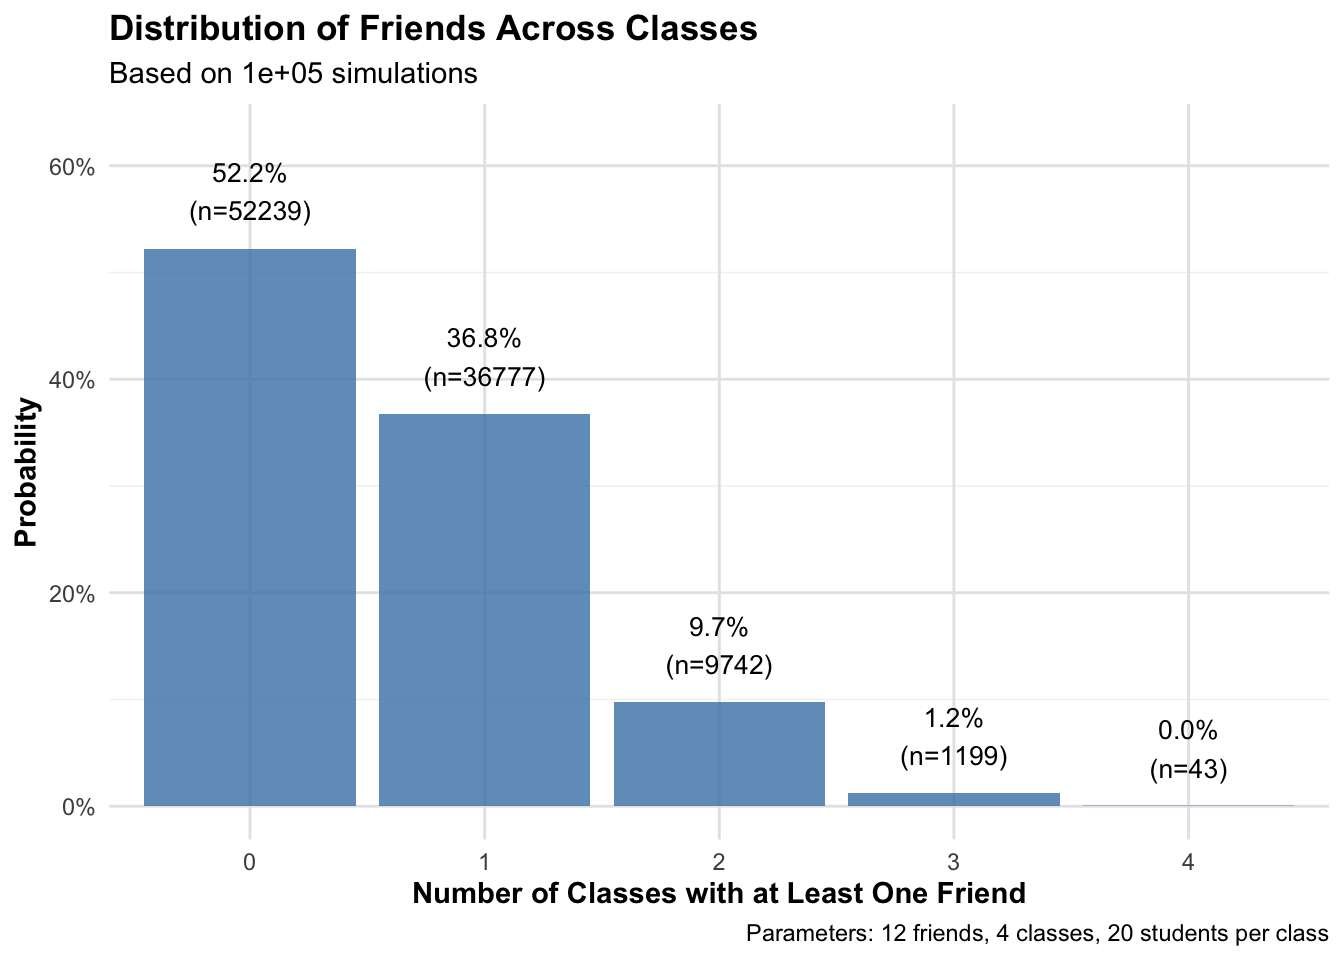
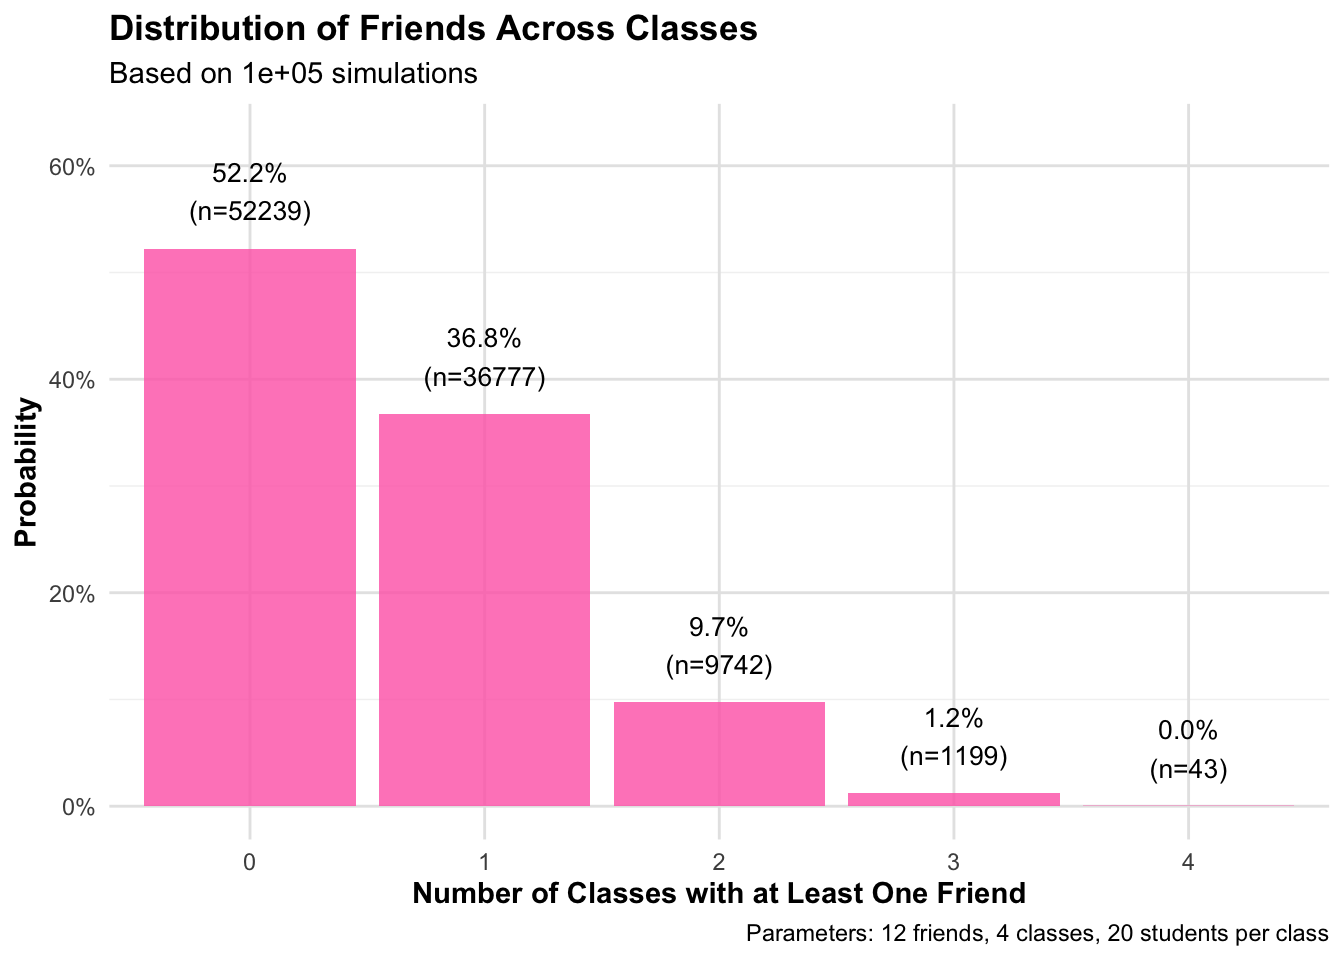
done till 4

Changed region(s): [[0.0938, 0.25, 0.8125, 0.8438]]

diff --git a/docs/Project3Taha.html b/docs/Project3Taha.html
@@ -7,7 +7,7 @@
 <meta name="viewport" content="width=device-width, initial-scale=1.0, user-scalable=yes">
 
 
-<title>taha6767.github.io - Project3Taha</title>
+<title>taha6767.github.io - Mustafa Taha Disbudak November 8 2024 Experimenting with a simulation in R</title>
 <style>
 code{white-space: pre-wrap;}
 span.smallcaps{font-variant: small-caps;}
@@ -131,25 +131,33 @@ pre > code.sourceCode > span > a:first-child::before { text-decoration: underlin
 <span class="menu-text">About</span></a>
   </li>  
   <li class="nav-item dropdown ">
-    <a class="nav-link dropdown-toggle" href="#" id="nav-menu-data-viz" role="button" data-bs-toggle="dropdown" aria-expanded="false">
- <span class="menu-text">Data Viz</span>
+    <a class="nav-link dropdown-toggle" href="#" id="nav-menu-my-projects" role="button" data-bs-toggle="dropdown" aria-expanded="false">
+ <span class="menu-text">My Projects</span>
     </a>
-    <ul class="dropdown-menu" aria-labelledby="nav-menu-data-viz">    
+    <ul class="dropdown-menu" aria-labelledby="nav-menu-my-projects">    
         <li>
     <a class="dropdown-item" href="./tidytuesday1.html">
- <span class="dropdown-text">TidyTuesday Analysis 1</span></a>
+ <span class="dropdown-text">Analyzing Ceo Departures Using R</span></a>
   </li>  
         <li>
     <a class="dropdown-item" href="./tidytuesday2.html">
- <span class="dropdown-text">TidyTuesday Analysis 2</span></a>
+ <span class="dropdown-text">Draugh Analysis of California Using R</span></a>
   </li>  
         <li>
     <a class="dropdown-item" href="./Project2Taha copy.html">
- <span class="dropdown-text">Project 2</span></a>
+ <span class="dropdown-text">Analyzing Netflix Data Using R</span></a>
   </li>  
         <li>
-    <a class="dropdown-item" href="./Project3Taha.html">
- <span class="dropdown-text">Project 3</span></a>
+    <a class="dropdown-item" href="./TahaProject3Final.html">
+ <span class="dropdown-text">Simulation of an Hypothetical Situation in R</span></a>
+  </li>  
+        <li>
+    <a class="dropdown-item" href="./Project4.html">
+ <span class="dropdown-text">Replicating a Graph in R</span></a>
+  </li>  
+        <li>
+    <a class="dropdown-item" href="./barebones.html">
+ <span class="dropdown-text">Presentation on My Projects So Far</span></a>
   </li>  
     </ul>
   </li>
@@ -172,7 +180,7 @@ pre > code.sourceCode > span > a:first-child::before { text-decoration: underlin
 
 <header id="title-block-header" class="quarto-title-block default">
 <div class="quarto-title">
-<h1 class="title">Project3Taha</h1>
+<h1 class="title">Mustafa Taha Disbudak November 8 2024 Experimenting with a simulation in R</h1>
 </div>
 
 
@@ -242,7 +250,7 @@ pre > code.sourceCode > span > a:first-child::before { text-decoration: underlin
 <span id="cb1-47"><a href="#cb1-47" aria-hidden="true" tabindex="-1"></a><span class="co"># Create the visualization</span></span>
 <span id="cb1-48"><a href="#cb1-48" aria-hidden="true" tabindex="-1"></a>friend_distribution_plot <span class="ot">&lt;-</span> <span class="fu">ggplot</span>(results_df, </span>
 <span id="cb1-49"><a href="#cb1-49" aria-hidden="true" tabindex="-1"></a>       <span class="fu">aes</span>(<span class="at">x =</span> classes_with_friends, <span class="at">y =</span> probability)) <span class="sc">+</span></span>
-<span id="cb1-50"><a href="#cb1-50" aria-hidden="true" tabindex="-1"></a>  <span class="fu">geom_bar</span>(<span class="at">stat =</span> <span class="st">"identity"</span>, <span class="at">fill =</span> <span class="st">"steelblue"</span>, <span class="at">alpha =</span> <span class="fl">0.8</span>) <span class="sc">+</span></span>
+<span id="cb1-50"><a href="#cb1-50" aria-hidden="true" tabindex="-1"></a>  <span class="fu">geom_bar</span>(<span class="at">stat =</span> <span class="st">"identity"</span>, <span class="at">fill =</span> <span class="st">"hotpink"</span>, <span class="at">alpha =</span> <span class="fl">0.8</span>) <span class="sc">+</span></span>
 <span id="cb1-51"><a href="#cb1-51" aria-hidden="true" tabindex="-1"></a>  <span class="fu">geom_text</span>(<span class="fu">aes</span>(<span class="at">label =</span> <span class="fu">paste0</span>(scales<span class="sc">::</span><span class="fu">percent</span>(probability, <span class="at">accuracy =</span> <span class="fl">0.1</span>),</span>
 <span id="cb1-52"><a href="#cb1-52" aria-hidden="true" tabindex="-1"></a>                              <span class="st">"</span><span class="sc">\n</span><span class="st">(n="</span>, frequency, <span class="st">")"</span>)),</span>
 <span id="cb1-53"><a href="#cb1-53" aria-hidden="true" tabindex="-1"></a>            <span class="at">vjust =</span> <span class="sc">-</span><span class="fl">0.5</span>, <span class="at">size =</span> <span class="fl">3.5</span>) <span class="sc">+</span></span>
